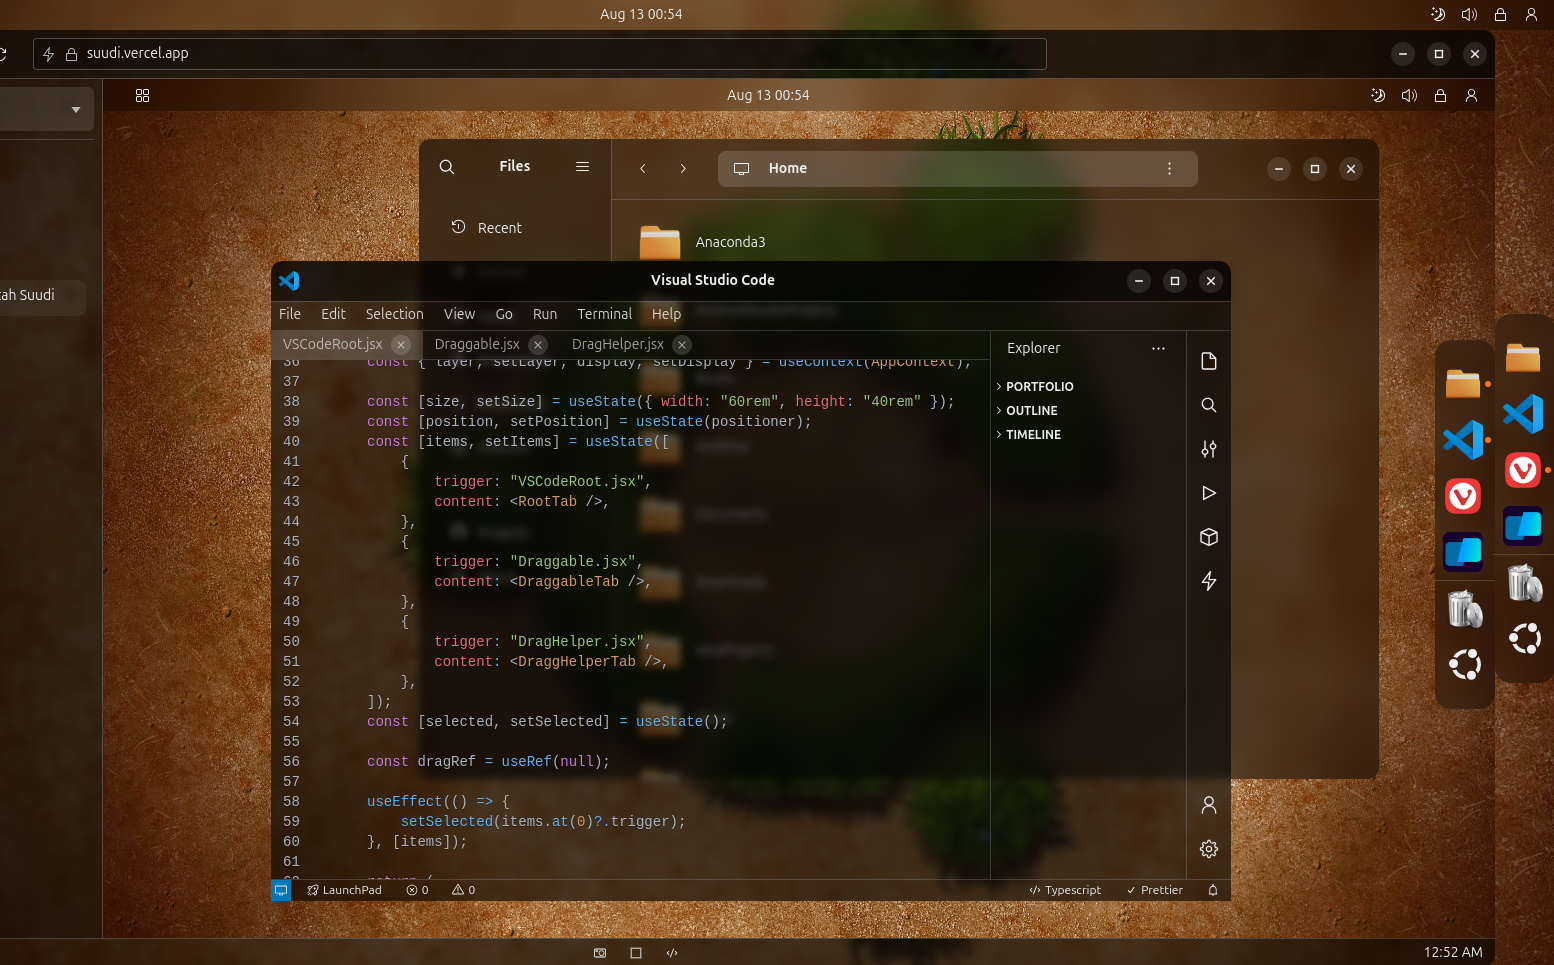
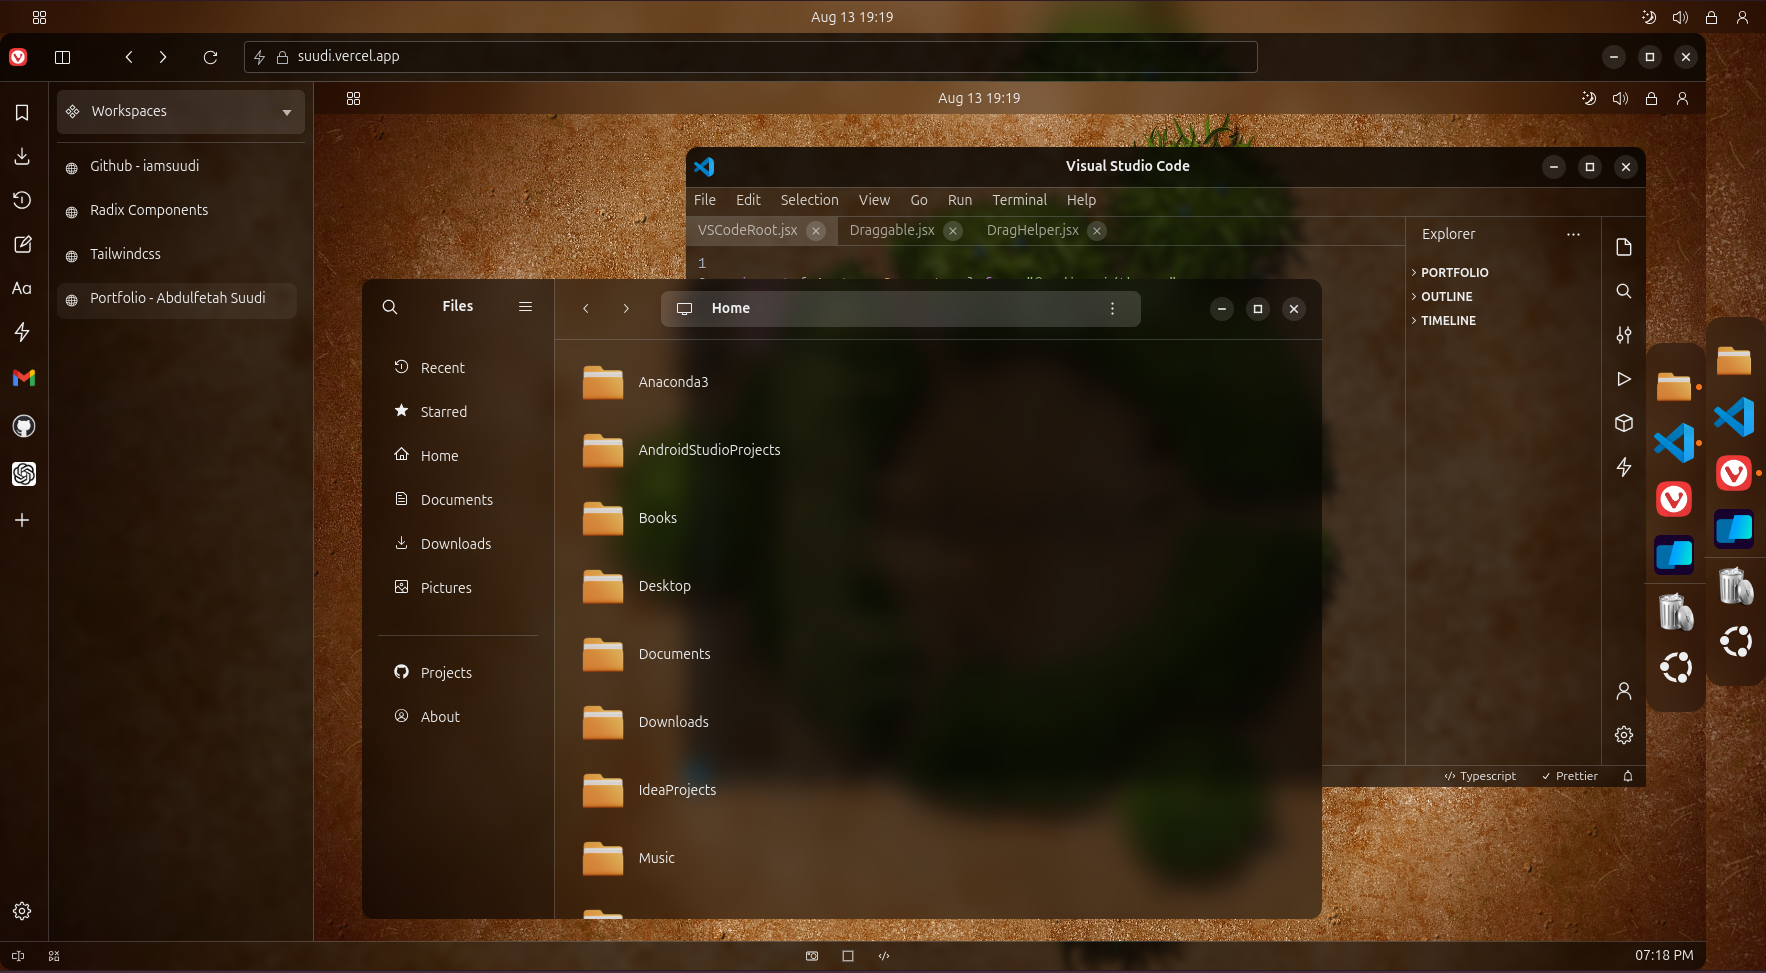
Update screenshot image and one vivaldi tab

diff --git a/src/components/ViewPort/Vivaldi/VivaldiRoot.jsx b/src/components/ViewPort/Vivaldi/VivaldiRoot.jsx
@@ -77,7 +77,7 @@ export default function VivaldiRoot({ drag }) {
 			],
 		},
 		{
-			name: "HackerRank",
+			name: "Leetcode",
 			id: "workspace-4",
 			tabs: [],
 		},
